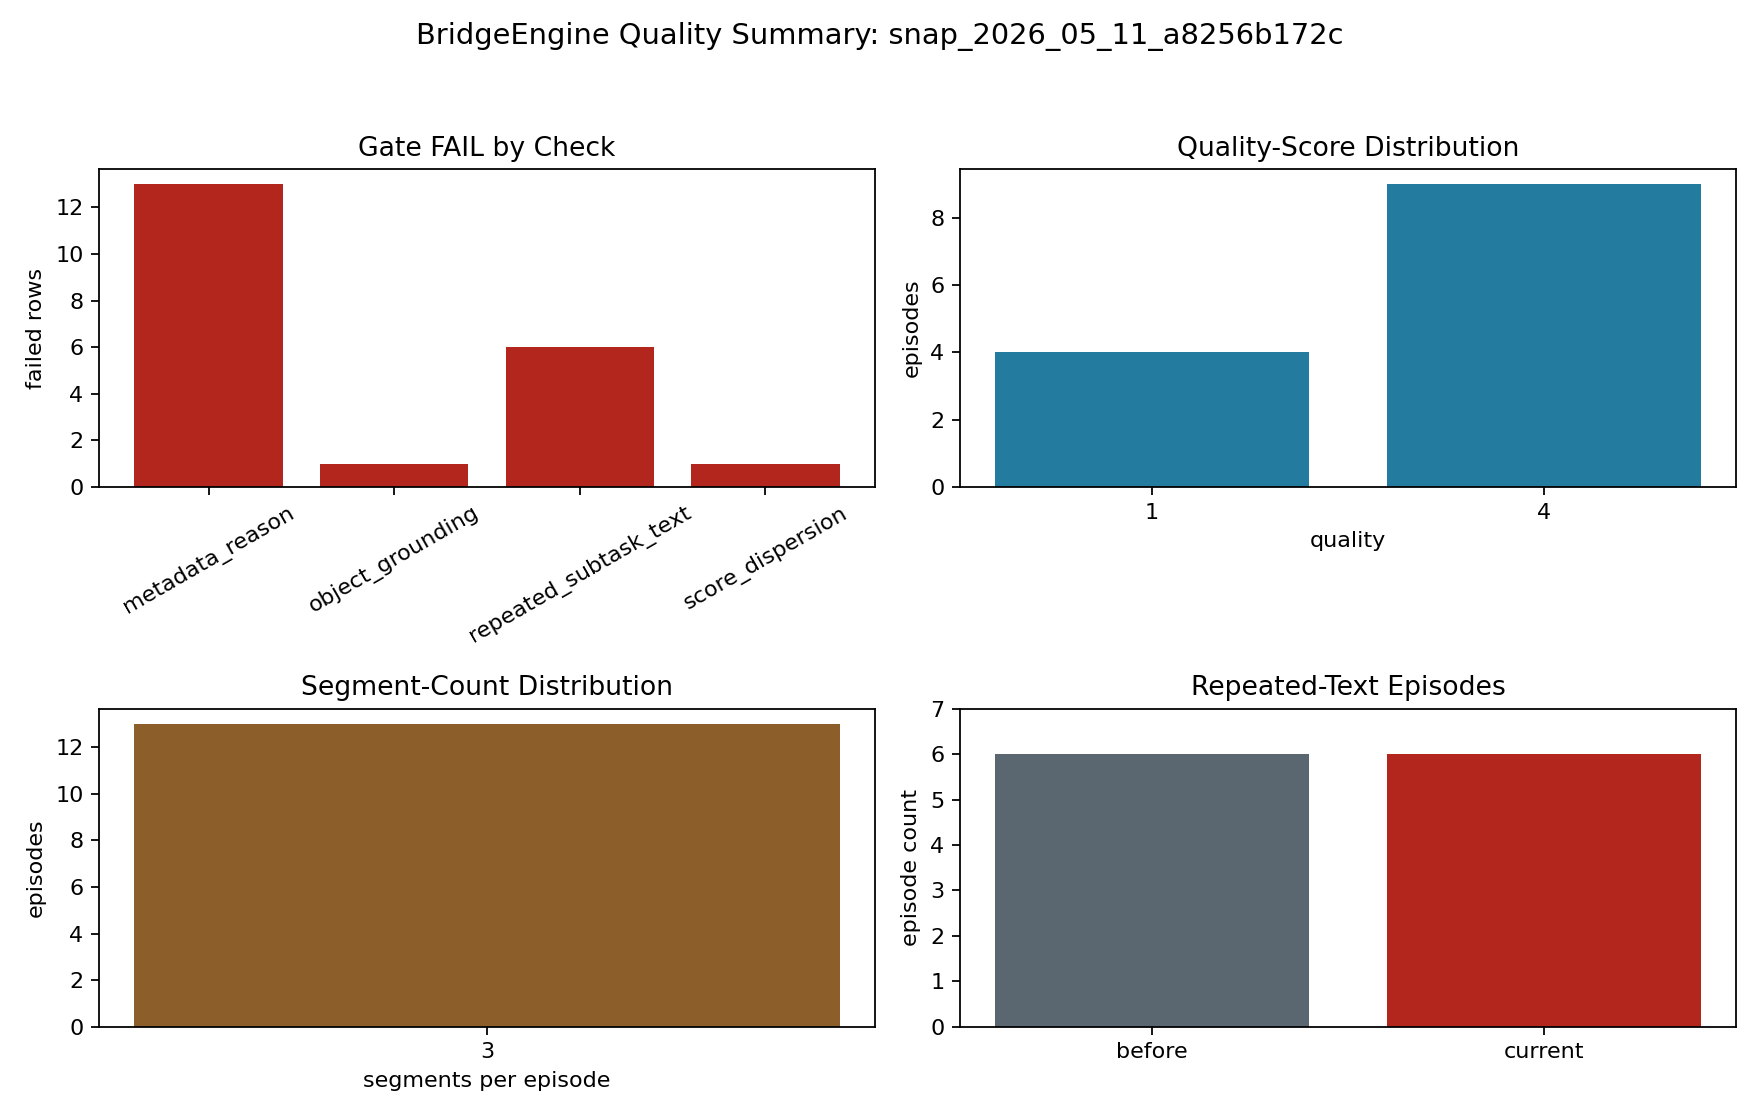
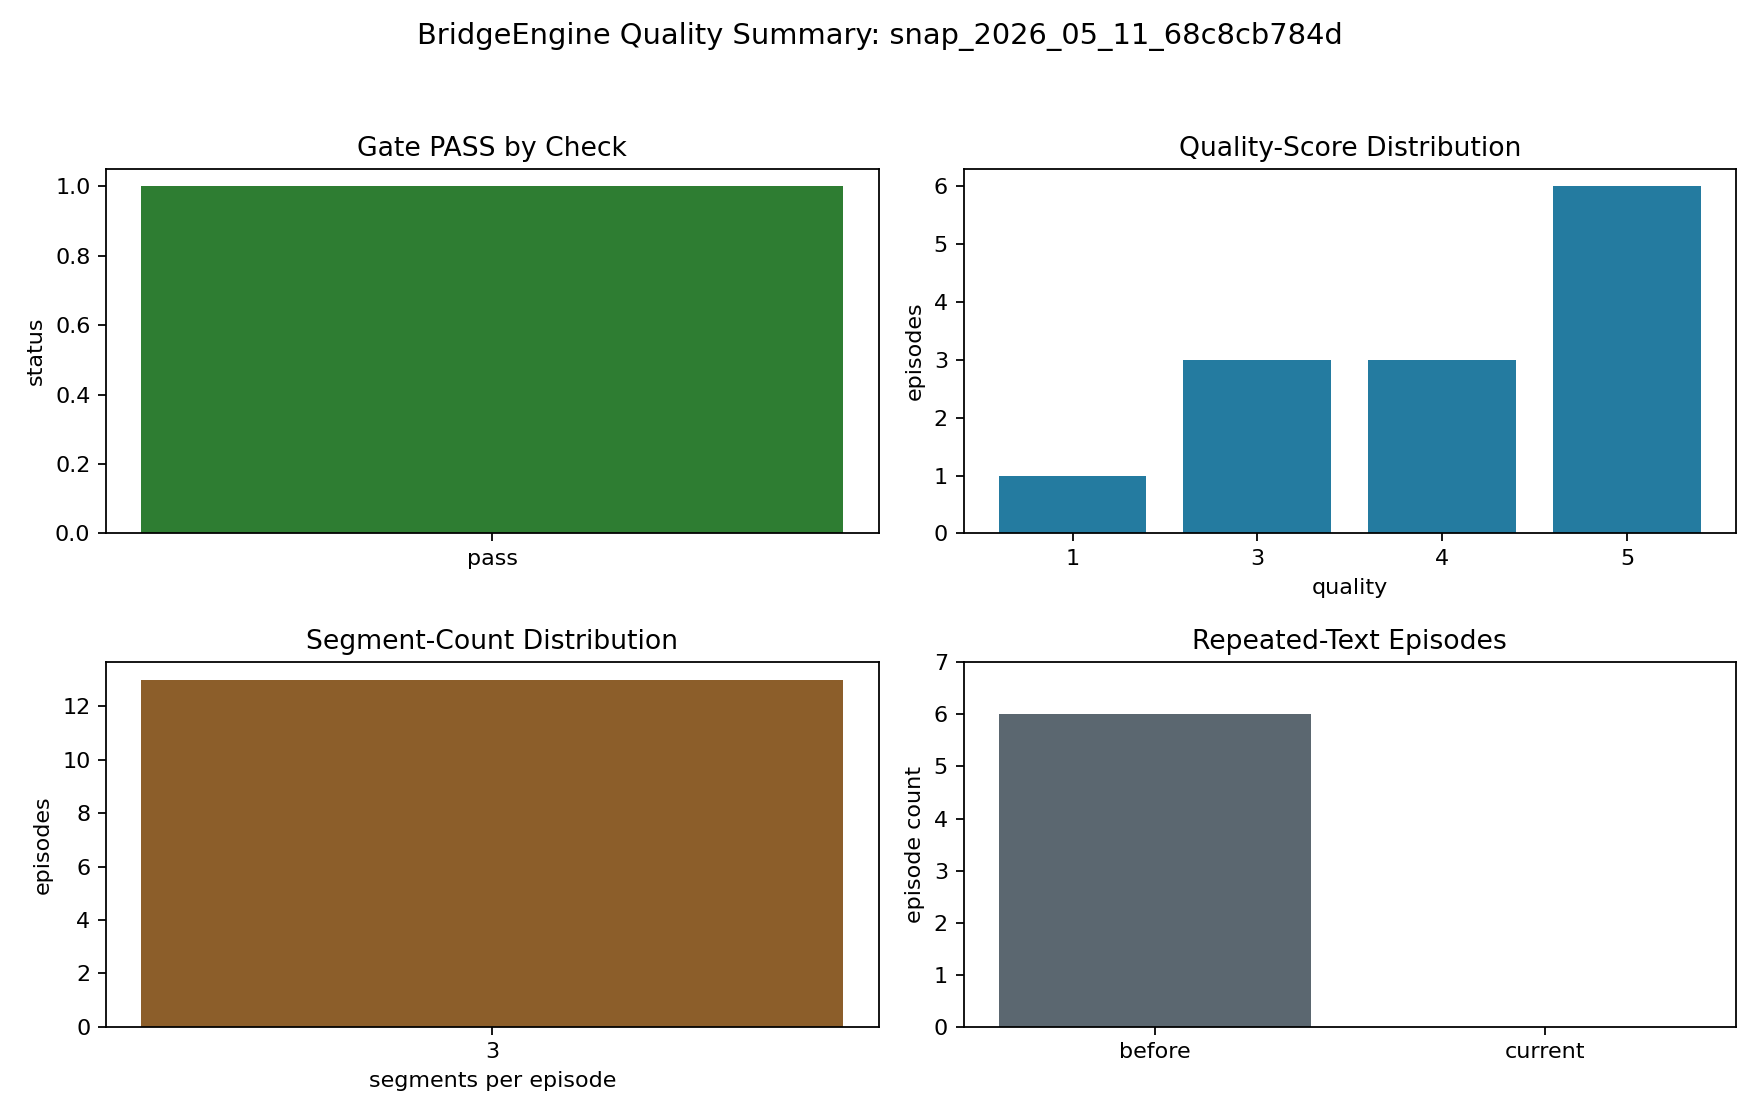
Add OpenAI label quality pass artifacts

diff --git a/bridgeengine/quality_gate.py b/bridgeengine/quality_gate.py
@@ -1,6 +1,7 @@
 from __future__ import annotations
 
 import json
+import re
 from dataclasses import dataclass
 from pathlib import Path
 from typing import Any
@@ -134,10 +135,10 @@ def _check_metadata(episode_id: str, metadata: dict[str, Any]) -> list[GateIssue
     if quality is None:
         issues.append(GateIssue(episode_id, "metadata_quality", "missing quality"))
         return issues
-    success_words = {"success", "successfully", "completed", "clean", "placed"}
+    success_words = {"success", "successfully", "completed", "clean", "placed", "resting", "inside"}
     failure_words = {"fail", "failed", "wrong", "incomplete", "mistake", "incorrect", "drop"}
-    says_success = any(word in lower for word in success_words)
-    says_failure = any(word in lower for word in failure_words)
+    says_success = _has_unnegated_word(lower, success_words)
+    says_failure = _has_unnegated_word(lower, failure_words)
     if quality <= 2 and says_success and not says_failure:
         issues.append(GateIssue(episode_id, "score_reason_consistency", "low quality paired with success reason"))
     if quality >= 4 and says_failure and not says_success:
@@ -149,24 +150,43 @@ def _check_metadata(episode_id: str, metadata: dict[str, Any]) -> list[GateIssue
 
 def _object_like_tokens(text: str) -> list[str]:
     stop = {
+        "after",
         "approach",
+        "before",
         "carry",
         "destination",
+        "edge",
         "from",
         "grasp",
+        "leave",
         "lift",
         "move",
         "object",
         "place",
+        "pickup",
         "release",
         "sink",
         "task",
         "that",
         "toward",
+        "withdraw",
         "with",
     }
     tokens = [token.strip(".,:;()[]{}").lower() for token in text.split()]
     return [token for token in tokens if len(token) >= 4 and token not in stop]
+
+
+def _has_unnegated_word(text: str, target_words: set[str]) -> bool:
+    tokens = re.findall(r"[a-z0-9_]+", text.lower())
+    negators = {"no", "not", "without", "none", "never"}
+    for idx, token in enumerate(tokens):
+        if token not in target_words:
+            continue
+        window = tokens[max(0, idx - 10) : idx]
+        if any(word in negators for word in window):
+            continue
+        return True
+    return False
 
 
 def _read_payload(path_value: Any) -> dict[str, Any]:

diff --git a/bridgeengine/labelers/episode_metadata.py b/bridgeengine/labelers/episode_metadata.py
@@ -2,6 +2,7 @@ from __future__ import annotations
 
 import hashlib
 import json
+import re
 import time
 from pathlib import Path
 
@@ -243,10 +244,10 @@ def _metadata_quality_issues(quality: int, mistake: bool, reason: str) -> list[s
     lower = reason.lower()
     if not reason or lower in {"one short sentence", "specific evidence consistent with the numeric score"}:
         issues.append("placeholder metadata reason")
-    success_words = {"success", "successfully", "completed", "clean", "placed"}
+    success_words = {"success", "successfully", "completed", "clean", "placed", "resting", "inside"}
     failure_words = {"fail", "failed", "wrong", "incomplete", "mistake", "incorrect", "drop"}
-    says_success = any(word in lower for word in success_words)
-    says_failure = any(word in lower for word in failure_words)
+    says_success = _has_unnegated_word(lower, success_words)
+    says_failure = _has_unnegated_word(lower, failure_words)
     if quality <= 2 and says_success and not says_failure:
         issues.append("quality score contradicts success reason")
     if quality >= 4 and says_failure and not says_success:
@@ -254,6 +255,19 @@ def _metadata_quality_issues(quality: int, mistake: bool, reason: str) -> list[s
     if mistake and quality >= 5:
         issues.append("mistake true with perfect quality")
     return issues
+
+
+def _has_unnegated_word(text: str, target_words: set[str]) -> bool:
+    tokens = re.findall(r"[a-z0-9_]+", text.lower())
+    negators = {"no", "not", "without", "none", "never"}
+    for idx, token in enumerate(tokens):
+        if token not in target_words:
+            continue
+        window = tokens[max(0, idx - 10) : idx]
+        if any(word in negators for word in window):
+            continue
+        return True
+    return False
 
 
 def _extract_json(text: str):

diff --git a/bridgeengine/labelers/subtask_segmenter.py b/bridgeengine/labelers/subtask_segmenter.py
@@ -405,20 +405,26 @@ def _segment_quality_issues(segments: list[dict], task: str, observations: dict 
 
 def _object_like_tokens(text: str) -> list[str]:
     stop = {
+        "after",
         "approach",
         "and",
         "at",
+        "before",
         "carry",
         "destination",
+        "edge",
         "grasp",
+        "leave",
         "lift",
         "move",
         "object",
         "place",
+        "pickup",
         "release",
         "the",
         "to",
         "toward",
+        "withdraw",
         "with",
     }
     tokens = [t.strip(".,:;()[]{}").lower() for t in text.split()]

diff --git a/STATUS.md b/STATUS.md
@@ -1,27 +1,36 @@
 # BridgeEngine Status
 
-Current snapshot visualized: `snap_2026_05_11_a8256b172c`
+Current OpenAI-backed snapshot visualized: `snap_2026_05_11_68c8cb784d`
+
+Comparison snapshot: `snap_2026_05_11_a8256b172c`
 
 ## What Is Built
 
 - Deterministic BridgeData V2 ingest into Parquet snapshots.
 - Two-stage semantic labelers with swappable VLM backends (`openai`, `moondream`, `mock`).
 - pi0.7-shaped labels: subtask segments, episode metadata, and end-of-segment subgoal images.
-- Full label provenance, including raw VLM output paths.
+- Full label provenance, including raw VLM output paths stored outside git.
 - DuckDB query layer and deterministic training-cut export.
 - Streamlit viewer with episode frames, labels, provenance, query outputs, and generated status figures.
 - Quality-gated benchmark scaffold that refuses bad labels.
 - Gold-set scaffold and reliability report command.
 
-## What Is Blocked
-
-- Stronger OpenAI-backend relabeling is blocked until `OPENAI_API_KEY` is available in the process or `.secrets/openai_api_key.txt`.
-- The current Moondream-era labels still fail the quality gate.
-- The real LEWM benchmark loop has not started.
-
 ## Current Quality State
 
-The current labeled snapshot fails quality gates for repeated subtask text, placeholder metadata reasons, object-grounding gaps, and quality-score collapse.
+The OpenAI-backed relabel passes the quality gate on all 13 episodes.
+
+```text
+Quality gate: PASS
+Episode pass rate: 1.000
+Quality counts: {1: 1, 3: 3, 4: 3, 5: 6}
+```
+
+The previous failure modes were:
+
+- Repeated templated subtask text: resolved by using live OpenAI two-stage observe-then-label output instead of deterministic fallback labels.
+- Metadata score/reason contradictions: resolved in the labels and by making the gate distinguish negated phrases such as "no wrong destination" from real failure claims.
+- Object-grounding gaps: resolved in the label set; the gate now ignores action/time words such as `pickup`, `before`, and `withdraw` as non-object tokens.
+- Quality-score collapse: resolved. The current distribution spans 1, 3, 4, and 5.
 
 ![Quality Summary](figures/quality_summary.png)
 
@@ -31,22 +40,32 @@ The current labeled snapshot fails quality gates for repeated subtask text, plac
 
 ## Benchmark State
 
-The benchmark chart is intentionally a placeholder until labels pass the gate.
+The benchmark chart is intentionally a placeholder until Kevin inspects label quality and approves starting the real LEWM grid.
 
 ![Benchmark Placeholder](figures/benchmark_placeholder.png)
 
-## Next Step
+## Human Inspection
 
-Set the OpenAI key without committing it:
+Three full example payloads are committed at:
 
-```powershell
-.\scripts\set_openai_key.ps1
+```text
+examples/openai_label_samples_snap_2026_05_11_68c8cb784d.json
 ```
 
-Then rerun:
+The real subgoal frames and raw VLM outputs remain local-only and ignored by git.
+
+## Validation Run
 
 ```powershell
-.\.venv\Scripts\python.exe -m bridgeengine.label --snapshot snap_2026_05_11_68c8cb784d --vlm-backend openai --vlm-model gpt-5.5
 .\.venv\Scripts\python.exe -m bridgeengine.quality_report --snapshot snap_2026_05_11_68c8cb784d
 .\.venv\Scripts\python.exe -m bridgeengine.figures --snapshot snap_2026_05_11_68c8cb784d --compare-snapshot snap_2026_05_11_a8256b172c
+.\.venv\Scripts\python.exe -m pytest
 ```
+
+Latest local result: `11 passed`.
+
+## What Is Still Blocked
+
+- Human review of label quality is still the stop point before running the real LEWM benchmark.
+- The reliability report is wired, but Kevin still needs to fill the gold labels; the example file is intentionally not a real gold set.
+- No benchmark claim should be made yet. The current result is that the labeling pipeline is benchmark-ready, not that a model result exists.
